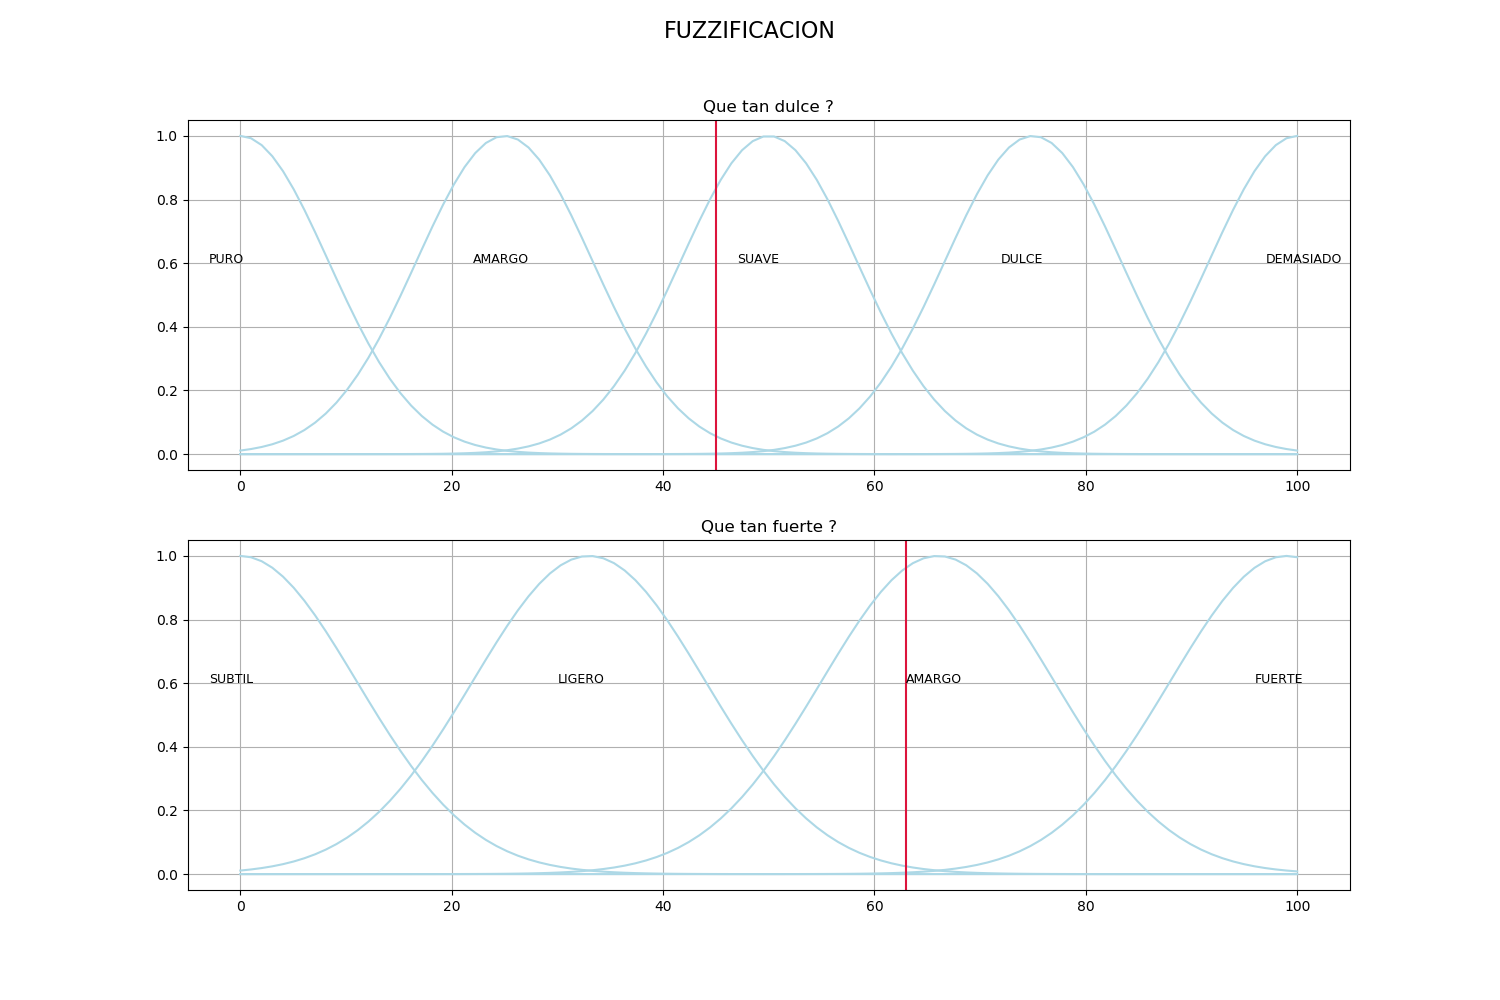
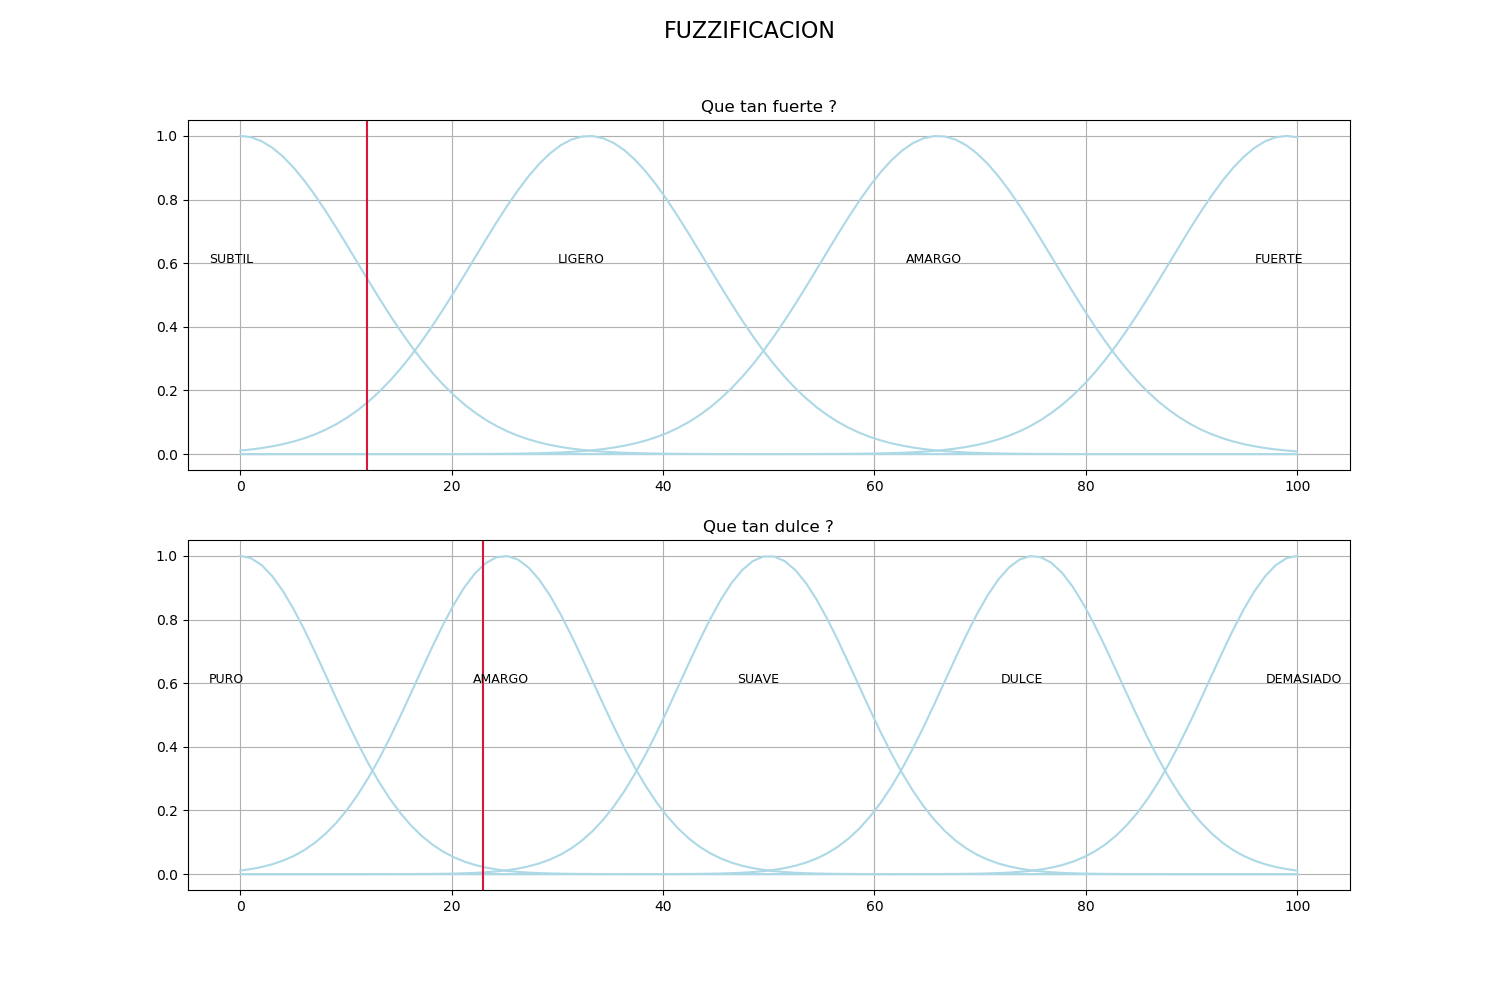
using json

diff --git a/Cafe.py b/Cafe.py
@@ -12,27 +12,25 @@ import numpy as np
 from scipy.stats import norm
 import matplotlib.pyplot as plt
 
+import json
+with open('Dictionario.json') as js:
+    DICTIONARIO = json.load(js)
+    ENTRADAS = DICTIONARIO.get('entradas')
+    SALIDAS = DICTIONARIO.get('salidas')
+    VARIABLES = DICTIONARIO.get('variables')
+
 # %% Clase principal
 
 class Cafe :
 
-    def __init__ (self):
-        self.labels={"dulce" : [["PURO",0],["AMARGO",0],["SUAVE",0],["DULCE",0],["DEMASIADO",0]], 
-                    "fuerte" : [["SUBTIL",0],["LIGERO",0],["AMARGO",0],["FUERTE",0]], 
-                    "agua" : [["POQUITO",0],["POCO",0],["BASTANTE",0],["MUCHO",0]], 
-                    "azucar" : [["POQUITO",0],["POCO",0],["BASTANTE",0],["MUCHO",0]]}   # variable : list[clase, valor de mu]
-        self.matrices = {"agua":np.array([["BASTANTE","BASTANTE","MUCHO","MUCHO","MUCHO"],
-                                        ["POCO","POCO","BASTANTE","BASTANTE","MUCHO"],
-                                        ["POQUITO","POQUITO","POCO","POCO","BASTANTE"],
-                                        ["POQUITO","POQUITO","POQUITO","POCO","POCO"]]),
-                        "azucar":np.array([["POCO","POCO","BASTANTE","MUCHO","MUCHO"],
-                                        ["POQUITO","POCO","BASTANTE","MUCHO","MUCHO"],
-                                        ["POQUITO","POQUITO","POCO","BASTANTE","MUCHO"],
-                                        ["POQUITO","POQUITO","POCO","BASTANTE","BASTANTE"]])}
-        self.escalas = {"dulce" : [0,100], "fuerte" : [0,100], "agua" : [0,240], "azucar" : [0,100]}    # variable : start,end
-        self.entradas = {"dulce" : [0,5], "fuerte" : [0,4]}   # variable : valor,splits
-        self.salidas = {"agua" : [40,"mL"], "azucar" : [0,"g"]} # variable : valor,unidad
-        self.matrizProba = np.zeros([4,5])
+    def __init__ (self,entradas,salidas,variables):
+        self.entradas=entradas    # list of String
+        self.salidas=salidas      # list of String
+        self.variables=variables  # dict
+        dim=[]
+        for e in entradas :
+            dim.append(len(variables[e]["labels"]))
+        self.matrizProba = np.zeros(dim)
 
     def run(self):
         self.pedirUsuario()
@@ -40,28 +38,29 @@ class Cafe :
         self.llenarMatriz()
         print("\n*******   SU CAFE CONTIENE   *******")
         print("14 g de cafe puro Colombiano")
-        for key, value in self.salidas.items() :
-            d = self.etiquetaSalida(key)
-            value[0] += self.defuzzificar(key, d)
-            print("{} {} de {}.".format(value[0], value[1], key))
+        for key in self.salidas :
+            d=self.etiquetaSalida(key)
+            self.variables[key]["salida"] += self.defuzzificar(key,d)
+            print("{} {} de {}.".format(self.variables[key]["salida"], 
+                  self.variables[key]["unidad"], key))
 
     def pedirUsuario(self):
         print("*******   BIENVENIDO   *******")
-        for key,value in self.entradas.items() :
+        for key in self.entradas :
             ok=False;
-            mini=self.escalas[key][0]
-            maxi=self.escalas[key][1]
+            mini=self.variables[key]["escala"][0]
+            maxi=self.variables[key]["escala"][1]
             print("Que tan {} le gustaria su cafe?".format(key))
             while ok==False :
                 try:
                     res=int(input("Escriba un valor entre {} y {} : ".format(mini,maxi)))
-                    ok=True
                     if res<mini or res>maxi :
                         print("Su numero no cumple las condiciones...")
                         ok=False
+                    else : ok=True
                 except ValueError :
                     print("Escribe un numero porfavor")
-            self.entradas[key][0]=res
+            self.variables[key]["entrada"]=res
 
         print("Listo! Empezamos la preparacion :-)")
 
@@ -75,19 +74,20 @@ class Cafe :
         plt.figure(figsize=(15,10))
         plt.suptitle("FUZZIFICACION",fontsize=16)
         dim=1
-        for key, value in self.entradas.items() :
+        for key in self.entradas :
             ax=plt.subplot(2,1,dim,title="Que tan {} ?".format(key))
             plt.grid()
-            labels=self.labels[key]
-            scale=self.escalas[key]
-            nbSplit=value[1]
+            labels=self.variables[key]["labels"]
+            scale=self.variables[key]["escala"]
+            nbSplit=len(labels)
             n=int((scale[1]-scale[0])/(nbSplit-1))
             sigma=n/3
             for i in range(0,nbSplit):
                 promedio=scale[0]+i*n
-                self.addGauss(ax,scale[0],scale[1],promedio,sigma,labels[i][0])
-                self.labels[key][i][1]=round(norm.pdf(value[0],promedio,sigma)/norm.pdf(promedio,promedio,sigma),2)
-            ax.axvline(value[0],color="Crimson")
+                self.addGauss(ax,scale[0],scale[1],promedio,sigma,labels[i])
+                mu=round(norm.pdf(self.variables[key]["entrada"],promedio,sigma)/norm.pdf(promedio,promedio,sigma),2)
+                self.variables[key]["valuesMu"][i]=mu
+            ax.axvline(self.variables[key]["entrada"],color="Crimson")
             dim+=1
         plt.show()
         plt.savefig("Fuzzificacion")
@@ -109,5 +109,7 @@ class Cafe :
     
 # %% Ejecucion
 if __name__ == '__main__':
-    coffee = Cafe()
+    coffee = Cafe(ENTRADAS,SALIDAS,VARIABLES)
+    print(coffee.matrizProba)
     coffee.run()
+    print(coffee.matrizProba)
